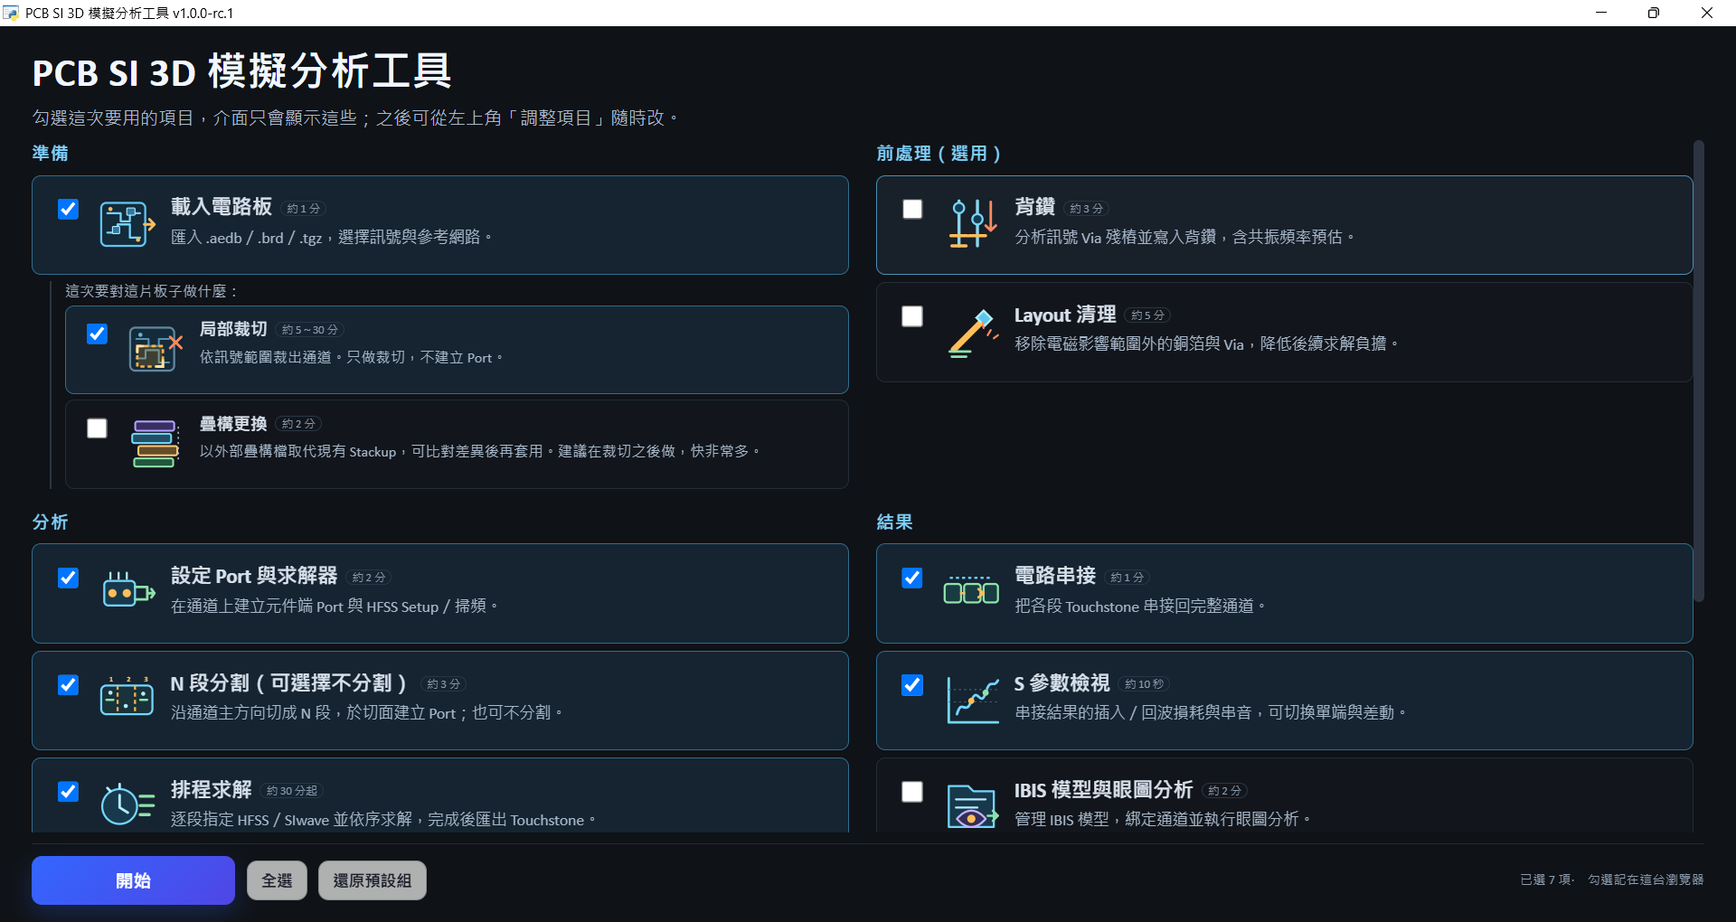
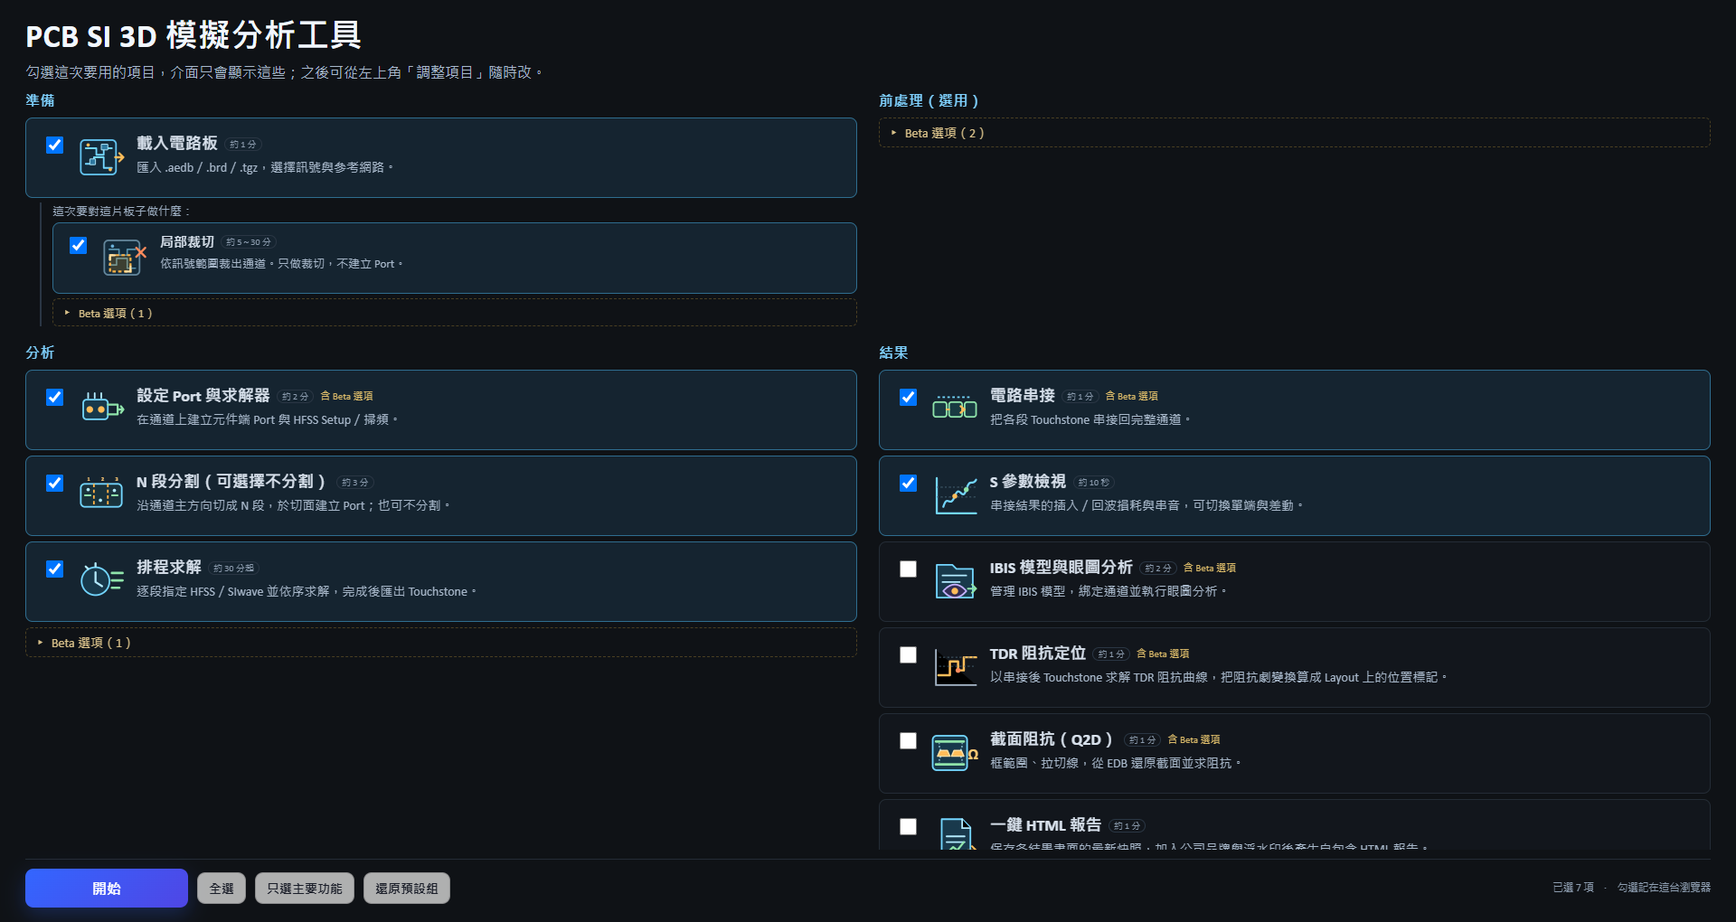
docs: 手冊與 README 補 Beta 選項（#0131）；重拍任務入口、新增 Beta 標籤截圖
01 新增 Beta 選項一節、06 眼圖分析標 Beta、11 Beta 確認的症狀；README 功能表標（Beta）
並指向 featureTiers.json，功能基準改 65fa265；CHANGELOG 未發布、圖片帳冊、AGENTS.md
說明分級檔不在公開版編輯。

diff --git a/docs/visual-assets.md b/docs/visual-assets.md
@@ -4,18 +4,19 @@
 
 | 項目 | 基準 |
 |---|---|
-| 工具版本／功能 commit | `1.0.0`／`cb01b63`（06 章眼圖精靈）、私有 `92d8b10`（gui-04b、14、15、15b、17b，2026-10-12）；其餘章節截圖拍於 `1.0.0-rc.1`／`63db38b`，畫面上的版本標籤仍是 rc.1 |
+| 工具版本／功能 commit | `1.0.0`／`cb01b63`（06 章眼圖精靈）、私有 `92d8b10`（gui-04b、14、15、15b、17b，2026-10-12）、私有 `65fa265`（gui-01、01b、01c，2026-10-12，瀏覽器模式 1920×1020、無標題列）；其餘章節截圖拍於 `1.0.0-rc.1`／`63db38b`，畫面上的版本標籤仍是 rc.1 |
 | 主線資料 | `Example_SYZ.aedb` 示範複本；先核對可公開權限 |
 | 畫面尺寸 | 工具視窗最大化，1920×1020（含標題列）；區域圖另記實際尺寸 |
 | 圖片目錄 | `graph/`，ASCII 檔名 |
-| 本次完成數 | 35 主圖：完成 19、區域圖 9、部分完成 3、併入 1、缺項 3、待拍 0；補圖 5；條件圖 0／5 |
+| 本次完成數 | 35 主圖：完成 19、區域圖 9、部分完成 3、併入 1、缺項 3、待拍 0；補圖 6；條件圖 0／5 |
 | 區域圖 | 該段畫面上下必有路徑欄，只截中間不含路徑的區塊；不修圖 |
 
 逐張完成後填工具 commit、示範資料來源、實拍日期、尺寸、成功狀態、去識別檢查與取代的舊圖。未拍或未回看不得標完成。不能注入假結果、改 DOM、拼貼成功畫面；不露本機路徑、使用者／客戶名稱與 token。
 
 | 圖檔 | 章 | 類別 | 驗收畫面 | 前置 | 狀態 |
 |---|---|---|---|---|---|
-| `gui-01-task-picker.png` | 00、01、README | 主圖 | 任務入口：載入與子任務、預設勾選、前置提示看得清楚 | 無 | 完成 |
+| `gui-01-task-picker.png` | 00、01、README | 主圖 | 任務入口：載入與子任務、預設勾選、Beta 選項收合、「只選主要功能」 | 無 | 完成：2026-10-12 重拍，私有 `65fa265`，瀏覽器模式 1920×1020 |
+| `gui-01c-beta-option.png` | 01 | 新增圖 | 展開「前處理」的 Beta 選項（2），停在背鑽的 `Beta Option` 標籤上顯示限制 | 無 | 完成：私有 `65fa265`，瀏覽器模式 1920×1020，2026-10-12 |
 | `gui-02-desktop-shell.png` | 01、README | 主圖 | 現行工具視窗框、版本、選單與工作區；無任何載入路徑 | 無 | 完成 |
 | `gui-03-help-menu.png` | 01、11 | 主圖 | 展開說明選單，包含支援包、授權、在瀏覽器開啟 | 無 | 完成 |
 | `gui-04-loaded-layout.png` | 00、02 | 主圖 | 示範板已載入、訊號與參考已選；隱藏輸入路徑，保留 Layout | 資料 | 完成 |
@@ -70,10 +71,10 @@
 
 | 狀態 | 圖 |
 |---|---|
-| 完成 | 01、02、03、04、06、07、13、14、15、17、18、19、20、21、22、23、26、27、28、30、31 |
-| 區域圖 | 08、09、10、11（`30c8ff8` 重拍）、16、32、33 |
+| 完成 | 01（`65fa265` 重拍）、02、03、04、06、07、13、17、18、19、20、21、22、23、26、27、28、30、31 |
+| 區域圖 | 08、09、10、11（`30c8ff8` 重拍）、14、15（`92d8b10` 重拍）、16、32、33 |
 | 部分完成 | 24（示範板非 DDR，綁定被擋）、34（完成對話框裁掉路徑行）、35（只有設定區） |
-| 補圖 | 01b、16b（高複雜度段改 SIwave 的確認框）、33b（`8acb42e` 產生的 HTML 報告：全文無本機路徑、6 張圖段數都是 3、浮水印跟著內容捲動）、20b（求解中按 X 的確認框）、27b（AMI 統計眼圖） |
+| 補圖 | 01b（`65fa265` 重拍）、01c（展開 Beta 選項與 `Beta Option` 限制提示）、16b（高複雜度段改 SIwave 的確認框）、33b（`8acb42e` 產生的 HTML 報告：全文無本機路徑、6 張圖段數都是 3、浮水印跟著內容捲動）、20b（求解中按 X 的確認框）、27b（AMI 統計眼圖） |
 | 缺項 | 12：清理候選 0；25：示範板不是 DDR；29：無可公開量測 CSV |
 
 模型庫用 Ansys 範例 IBIS（`ansys_ddr4_*`、`usb4_*`，檔內 Copyright ANSYS）。58 張核准的舊截圖已移除；品牌 LOGO 與 7 張 validation 證據圖保留。
@@ -93,6 +94,10 @@
 ## 重拍記錄（2026-10-12，判斷頻寬、不分割預覽、從中途開始、分段疊圖）
 
 前端同步到私有 `92d8b10` 後，隔離後端（獨立資料目錄、範例板複本）與 headless Chrome 實際操作：勾著局部裁切載入已設 Port 的 `Example_SYZ` 裁切複本 → 一鍵改成不裁切重新載入 → 套用內建 DDR4-3200 → 複雜度分析 → 等分 N=3 → 不分割。未求解、未占求解授權。重拍 `gui-14`、`gui-15`，新增 `gui-04b`、`gui-15b`、`gui-17b`。只用工具本身的操作（收合圖層面板、清除日誌）與裁切避開路徑欄位，沒有改 DOM 或修圖。逐張回看：無本機路徑、使用者／客戶名、token。
+
+## 重拍記錄（2026-10-12，Beta 選項）
+
+前端同步到私有 `65fa265` 後，直接以本 repo 的 `web_app/frontend/dist` 起本機靜態伺服器（不起後端、不載板），headless Chrome 清空瀏覽器儲存後實際操作：預設入口 → 捲到底 → 展開「前處理」的 Beta 選項並停在 `Beta Option` 標籤。重拍 `gui-01`、`gui-01b`，新增 `gui-01c`。第一次送出的確認框是瀏覽器原生對話框，截不到；以同一頁面實測文字、取消不送出、確認後同版本不再問，寫進 01、11 章。逐張回看：無本機路徑、使用者／客戶名、token。
 
 ## 舊圖處理
 

diff --git a/README.en.md b/README.en.md
@@ -1,6 +1,6 @@
 # PCB SI 3D Simulation Toolkit
 
-![Current task picker in the tool window, with no board loaded](graph/gui-01-task-picker.png)
+![Current task picker with no board loaded; Beta options collapsed](graph/gui-01-task-picker.png)
 
 Extract and solve a PCB signal channel, cascade its segments, and inspect eye diagrams, TDR locations and cross-section impedance as needed.
 
@@ -10,15 +10,17 @@ Extract and solve a PCB signal channel, cascade its segments, and inspect eye di
 
 | Task | Chapter |
 |---|---|
-| Net selection, cutout, stackup, backdrill and Layout cleanup | [02](docs/manual/02-載入與裁切.md) |
+| Net selection, cutout, stackup (Beta), backdrill (Beta) and Layout cleanup (Beta) | [02](docs/manual/02-載入與裁切.md) |
 | Endpoint ports, profiles and frequency sweeps | [03](docs/manual/03-Port與求解設定.md) |
 | Whole-board or segmented analysis, HFSS/SIwave assignment | [04](docs/manual/04-分段與混合求解.md) |
 | Scheduling, stopping, export retries and Touchstone cascading | [05](docs/manual/05-排程與串接.md) |
-| Model import, spec models (SPISim or toolkit-synthesized), Eye Wizard (single, multi-port, AMI) | [06](docs/manual/06-IBIS與眼圖.md) |
-| Simulated or measured TDR mapped to Layout | [07](docs/manual/07-TDR定位.md) |
+| Model import, spec models (SPISim or toolkit-synthesized, Beta), Eye Wizard; eye analysis (single, multi-port, AMI, Beta) | [06](docs/manual/06-IBIS與眼圖.md) |
+| Simulated or measured (Beta) TDR mapped to Layout | [07](docs/manual/07-TDR定位.md) |
 | 2D cross-section impedance and lateral convergence | [08](docs/manual/08-截面阻抗.md) |
 | Snapshots, watermarks and a single-file HTML report | [09](docs/manual/09-報告與輸出.md) |
-| External channels, remote solve packages, S-parameter tools and COM | [10](docs/manual/10-其他工作模式.md) |
+| External channels, remote solve packages (Beta), S-parameter tools (Beta) and COM (Beta) | [10](docs/manual/10-其他工作模式.md) |
+
+Features marked Beta are usable but have fewer validation cases; at equal severity, main features are fixed first. Beta does not mean the result is invalid. Tiers follow [`featureTiers.json`](web_app/frontend/src/featureTiers.json); the in-app labels and the one-time confirmation are described in [chapter 01](docs/manual/01-開始使用.md#beta-選項).
 
 ## Complete-tool prerequisites
 
@@ -50,6 +52,6 @@ Follow [00 First run](docs/manual/00-第一次跑.md). Eye analysis has a separa
 | Reports/support bundles | Check paths, models, logs and identifiers before sending. Watermarks are not DRM |
 | 2D Q2D | Does not cover the complete 3D effects of vias, corners or reference-plane gaps |
 
-Documentation targets `1.0.0`, feature baseline `92d8b10`. The status of all 35 main screenshots has been recorded, with 3 missing items. 5 conditional screenshots and distribution-package acceptance remain pending. [Release notes](CHANGELOG.md) · [Image register](docs/visual-assets.md) · [Validation](validation/README.md) · [Troubleshooting](docs/manual/11-疑難排解.md). Historical validation supports only its recorded versions, data and conditions.
+Documentation targets `1.0.0`, feature baseline `65fa265`. The status of all 35 main screenshots has been recorded, with 3 missing items. 5 conditional screenshots and distribution-package acceptance remain pending. [Release notes](CHANGELOG.md) · [Image register](docs/visual-assets.md) · [Validation](validation/README.md) · [Troubleshooting](docs/manual/11-疑難排解.md). Historical validation supports only its recorded versions, data and conditions.
 
 Commercial licensing and support are provided by Taiwan Auto-Design Co., Ltd. (TADC). This independent showcase is not affiliated with or endorsed by Ansys, Inc. Trademarks belong to their respective owners. The tool does not include, provide or bypass Ansys licensing.

diff --git a/README.zh-TW.md b/README.zh-TW.md
@@ -1,6 +1,6 @@
 # PCB SI 3D 模擬分析工具
 
-![現行任務入口（工具視窗，未載入板子）](graph/gui-01-task-picker.png)
+![現行任務入口（未載入板子，Beta 選項收合）](graph/gui-01-task-picker.png)
 
 將 PCB 訊號通道裁切、分段求解，再串回完整通道；依需求做眼圖、TDR 與截面阻抗分析。
 
@@ -10,15 +10,17 @@
 
 | 你要做什麼 | 操作章節 |
 |---|---|
-| 選網路、裁切、疊構、背鑽、Layout 清理 | [02 載入與裁切](docs/manual/02-載入與裁切.md) |
+| 選網路、裁切、疊構（Beta）、背鑽（Beta）、Layout 清理（Beta） | [02 載入與裁切](docs/manual/02-載入與裁切.md) |
 | 建端點 Port、套用規格與掃頻 | [03 Port 與求解設定](docs/manual/03-Port與求解設定.md) |
 | 選整片或分段、逐段指定 HFSS／SIwave | [04 分段與混合求解](docs/manual/04-分段與混合求解.md) |
 | 排程、停止、重試匯出、Touchstone 串接 | [05 排程與串接](docs/manual/05-排程與串接.md) |
-| 模型匯入、規格模型（SPISim 產生／本工具合成）、眼圖精靈（單通道、多埠、AMI） | [06 IBIS 與眼圖](docs/manual/06-IBIS與眼圖.md) |
-| 模擬／量測 TDR 回標 Layout | [07 TDR 定位](docs/manual/07-TDR定位.md) |
+| 模型匯入、規格模型（SPISim 產生／本工具合成，Beta）、眼圖精靈；眼圖分析（單通道、多埠、AMI，Beta） | [06 IBIS 與眼圖](docs/manual/06-IBIS與眼圖.md) |
+| 模擬／量測（Beta）TDR 回標 Layout | [07 TDR 定位](docs/manual/07-TDR定位.md) |
 | 二維截面阻抗、側向收斂 | [08 截面阻抗](docs/manual/08-截面阻抗.md) |
 | 更新快照、浮水印、單檔 HTML | [09 報告與輸出](docs/manual/09-報告與輸出.md) |
-| 外部通道、遠端求解包、S 參數工具箱、COM | [10 其他工作模式](docs/manual/10-其他工作模式.md) |
+| 外部通道、遠端求解包（Beta）、S 參數工具箱（Beta）、COM（Beta） | [10 其他工作模式](docs/manual/10-其他工作模式.md) |
+
+標「Beta」的功能可以使用，但驗證案例較少；同嚴重度的問題先處理主要功能，Beta 不代表結果無效。分級以 [`featureTiers.json`](web_app/frontend/src/featureTiers.json) 為準，介面上的標示與確認方式見 [01 Beta 選項](docs/manual/01-開始使用.md#beta-選項)。
 
 ## 完整工具前置需求
 
@@ -50,6 +52,6 @@
 | 報告／支援包 | 送出前檢查路徑、模型、日誌與識別資料；浮水印不是 DRM |
 | 二維 Q2D | 不涵蓋 Via、轉角與參考層破口的完整三維效應 |
 
-文件適用 `1.0.0`／功能基準 `92d8b10`。35 張主圖狀態已盤點，仍有 3 項缺圖；5 張條件圖與工具包驗收尚未完成。[版本說明](CHANGELOG.md)｜[圖片帳冊](docs/visual-assets.md)｜[驗證資料](validation/README.md)｜[疑難排解](docs/manual/11-疑難排解.md)。歷史驗證只支持其記錄的版本、資料與條件。
+文件適用 `1.0.0`／功能基準 `65fa265`。35 張主圖狀態已盤點，仍有 3 項缺圖；5 張條件圖與工具包驗收尚未完成。[版本說明](CHANGELOG.md)｜[圖片帳冊](docs/visual-assets.md)｜[驗證資料](validation/README.md)｜[疑難排解](docs/manual/11-疑難排解.md)。歷史驗證只支持其記錄的版本、資料與條件。
 
 商用授權與技術支援由虎門科技股份有限公司（Taiwan Auto-Design Co., Ltd.，TADC）提供。此為獨立公開展示，與 Ansys, Inc. 無隸屬或背書關係；相關商標屬原權利人，工具不含、不提供亦不繞過 Ansys 授權。

diff --git a/docs/manual/01-開始使用.md b/docs/manual/01-開始使用.md
@@ -43,17 +43,34 @@
 
 | 預設開啟 | 選用功能 |
 |---|---|
-| 載入電路板、局部裁切 | 疊構更換、背鑽、Layout 清理 |
-| 設定 Port 與求解器、N 段分割（可選擇不分割）、排程求解 | 遠端求解包 |
+| 載入電路板、局部裁切 | 收在「Beta 選項」：疊構更換、背鑽、Layout 清理 |
+| 設定 Port 與求解器、N 段分割（可選擇不分割）、排程求解 | 收在「Beta 選項」：遠端求解包 |
 | 電路串接、S 參數檢視 | IBIS 模型與眼圖分析、TDR 阻抗定位、截面阻抗（Q2D）、一鍵 HTML 報告 |
 
 「調整項目」可重新勾選。勾選控制面板顯示，**不代表前置工作已完成**；前置提示也不取代工程核對。順序是載入 → 裁切 → 選用幾何前處理 → Port → 整片／分段 → 求解 → 串接。
 
-![任務入口，預設勾選 7 項](../../graph/gui-01-task-picker.png)
+![任務入口，預設勾選 7 項，Beta 選項收合](../../graph/gui-01-task-picker.png)
 
 下方的截面阻抗與報告需在任務清單向下捲動。
 
 ![捲動後的選用任務](../../graph/gui-01b-task-picker-options.png)
+
+<a id="beta-選項"></a>
+### Beta 選項
+
+標 `Beta Option` 的功能可以使用，但驗證案例較少或不是主要支援流程；**同嚴重度的問題先處理主要功能**。Beta 不代表結果無效，主要功能也不代表結果已通過驗收。哪些是 Beta 以工具內的分級登錄檔（`featureTiers.json`）為準，介面標示跟著它走。
+
+| 位置 | 畫面 |
+|---|---|
+| 任務入口 | 純 Beta 的任務收在各群組的「Beta 選項（N）」，預設收合；勾了幾項會顯示「已選 N」 |
+| 含 Beta 模式的主要任務 | 卡片標「含 Beta 選項」，任務本身仍是主要功能（例如眼圖分析、量測 TDR 在各自的任務裡） |
+| 面板與模式 | 旁邊有 `Beta Option` 標籤；滑鼠停留、鍵盤焦點或點擊可看限制。下拉選項加「（Beta）」 |
+| 底部按鈕 | 「只選主要功能」勾選全部主要任務、不勾純 Beta 任務；「全選」照舊，並顯示含幾項 Beta |
+| 第一次送出 | 送出用到 Beta 的工作前，彙總本次用到的 Beta 項目與限制請你確認；**同一項在同一分級版本只問一次**，之後用到還沒確認過的 Beta 項才會再問。取消不送出、不改設定。原有的覆寫、授權與求解確認照舊各自問 |
+| 上次存下的勾選含 Beta | 原樣載入並提示，不會自動取消 |
+| 執行紀錄 | 記下當時用了哪些 Beta 選項，歷史面板顯示「分級」；舊紀錄顯示「分級：未記錄」 |
+
+![展開 Beta 選項，停在 Beta Option 標籤上看限制](../../graph/gui-01c-beta-option.png)
 
 ## 選單與工作狀態
 

diff --git a/CHANGELOG.md b/CHANGELOG.md
@@ -13,6 +13,7 @@
 | 判斷頻寬 | 求解器建議用的頻寬移到「模擬設定」，依規範／依資料率自訂二選一，兩邊各自保留；進階覆寫優先。切面一律以掃頻上限驗收。分段後改頻寬會提示重新評估；排程日誌提示頻寬與掃頻對不上 | [03](docs/manual/03-Port與求解設定.md#判斷頻寬)、[04](docs/manual/04-分段與混合求解.md#分段操作)、[05](docs/manual/05-排程與串接.md#排程求解) |
 | 不分割預覽 | 「不分割，整片求解」後，預覽整塊板一個求解區域，標籤跟著指定的求解器 | [04](docs/manual/04-分段與混合求解.md#不分割整片求解) |
 | 從中途開始 | 已裁切／已設 Port 的板子取消「局部裁切」直接載入；勾著局部裁切載入已有 Port 的板會提示，一鍵改成不裁切重新載入；訊號網路依既有 Port 預選 | [02](docs/manual/02-載入與裁切.md#已裁切或已設-port-的板子) |
+| 功能分級：主要與 Beta Option | 13 項主要、19 項 Beta（以 `web_app/frontend/src/featureTiers.json` 為準）。入口的 Beta 任務收進各群組「Beta 選項（N）」預設收合；含 Beta 模式的主要任務標「含 Beta 選項」；新增「只選主要功能」。面板、模式與下拉選項標 `Beta Option`／「（Beta）」，可看限制。第一次送出 Beta 選項前彙總確認，同一項在同一分級版本只問一次，取消不送出。上次存下的勾選含 Beta 時原樣載入並提示；執行紀錄與歷史面板記下當時的分級。限制：只有深色主題配色；報告尚未逐節標 Beta | [01](docs/manual/01-開始使用.md#beta-選項)、[06](docs/manual/06-IBIS與眼圖.md#眼圖精靈五步)、[11](docs/manual/11-疑難排解.md#常見問題) |
 | 分段疊圖兩顆開關 | 「板子禁切／風險」（禁切區間、硬擋 Pad、斜走線，與段數無關）與「切點診斷」（理想等分位置、被拒絕候選，隨段數改變） | [04](docs/manual/04-分段與混合求解.md#疊圖開關) |
 
 ## v1.0.0（2026-10-11）：第一版

diff --git a/README.md b/README.md
@@ -1,8 +1,8 @@
 # PCB SI 3D Simulation Toolkit
 
-![現行任務入口（工具視窗，未載入板子）](graph/gui-01-task-picker.png)
+![現行任務入口（未載入板子，Beta 選項收合）](graph/gui-01-task-picker.png)
 
-PCB 通道裁切、分段、HFSS／SIwave 混合求解、Touchstone 串接、IBIS／AMI 眼圖、TDR 定位與 Q2D 截面阻抗。
+PCB 通道裁切、分段、HFSS／SIwave 混合求解、Touchstone 串接、IBIS／AMI 眼圖（Beta）、TDR 定位與 Q2D 截面阻抗。標「Beta」的功能可以使用但驗證案例較少，分級以 [`featureTiers.json`](web_app/frontend/src/featureTiers.json) 為準，功能清單見[繁體中文說明](README.zh-TW.md)。
 
 **本 Repo 是公開展示版，沒有後端與啟動器。下載 Source ZIP 無法執行完整模擬。** 完整工具與商用支援請洽 [TADC](https://www.cadmen.com/)／[jeff.hong@cadmen.com](mailto:jeff.hong@cadmen.com)。
 
@@ -15,6 +15,6 @@ PCB 通道裁切、分段、HFSS／SIwave 混合求解、Touchstone 串接、IBI
 | [驗證資料](validation/README.md) | 個別功能的歷史驗證條件與結果 |
 | [圖片帳冊](docs/visual-assets.md) | 截圖版本與驗收狀態 |
 
-文件適用工具 `1.0.0`，功能基準 `92d8b10`。35 張主圖狀態已盤點，仍有 3 項缺圖；5 張條件圖與完整工具包驗收尚未完成，詳見版本說明與圖片帳冊。
+文件適用工具 `1.0.0`，功能基準 `65fa265`。35 張主圖狀態已盤點，仍有 3 項缺圖；5 張條件圖與完整工具包驗收尚未完成，詳見版本說明與圖片帳冊。
 
 商用授權與技術支援由虎門科技股份有限公司（Taiwan Auto-Design Co., Ltd.，TADC）提供。本工具與 Ansys, Inc. 無隸屬、無背書關係，Ansys、HFSS、SIwave 等商標屬原權利人。使用完整工具須自備相應的有效 Ansys 授權。

diff --git a/docs/manual/11-疑難排解.md b/docs/manual/11-疑難排解.md
@@ -33,6 +33,7 @@
 | 眼圖閉合／無法量測 | 核對通道、資料率、模型兩側、方向與等化；用基準眼比較，不能只降速就認定原設定正確 |
 | TDR 位置反向／不連續 | 查探棒端、網路、走線長度與未串入段，再判斷是否翻轉起點 |
 | Q2D 結束卻沒有數值 | 查可解性、錯誤與授權；工作結束不等於實際完成求解 |
+| 送出時跳「本次使用 Beta 選項」確認 | 本次用到還沒確認過的 Beta 項目；同一項在同一分級版本只問一次。按「取消」不送出、不改設定，畫面顯示「已取消：未確認 Beta 選項提示，沒有送出」。分級改版後會再問，見 [01 Beta 選項](01-開始使用.md#beta-選項) |
 | HTML 開不起來／內容不對 | 重開產出檔，核對作用中快照、過期數量與來源，見 [09](09-報告與輸出.md) |
 
 ![說明選單：支援包與日誌入口](../../graph/gui-03-help-menu.png)

diff --git a/docs/manual/06-IBIS與眼圖.md b/docs/manual/06-IBIS與眼圖.md
@@ -85,6 +85,8 @@
 
 單通道、多埠／DDR、IBIS-AMI 都在「眼圖精靈」分頁做完。舊的「多埠通道」「AMI 通道」分頁已移除，功能全部在精靈裡。
 
+**眼圖分析目前是 Beta Option**（標準 IBIS、IBIS-AMI、多埠／DDR）：已有實機出圖，但還缺獨立數值基準，補齊後再升級為主要功能。模型庫與精靈本身是主要功能；SPISim 規格模型、本工具合成、由量測建模、AMI 秒級預覽與等化掃描、S 參數工具箱、COM、SerDes 合規也是 Beta。第一次送出會跳一次彙總確認，見 [01 Beta 選項](01-開始使用.md#beta-選項)。
+
 | 步驟 | 做什麼 | 核對 |
 |---|---|---|
 | 1 通道 | 「瀏覽…」選 Touchstone。超過 4 埠自動走多埠分支 | 檔案是要分析的那條通道 |

diff --git a/AGENTS.md b/AGENTS.md
@@ -47,6 +47,13 @@ Most images are shared, but any image containing local paths or customer data ne
 anonymized `-public` variant first. Before copying in any image the public repository does not
 already have, actually look at the image content and decide.
 
+### Feature tiers (main / Beta Option)
+
+`web_app/frontend/src/featureTiers.json` is the single list of which features are Beta. It is synced
+from the private repository with the rest of `web_app/frontend/` — do not edit it here. README
+feature lists and the manual only add a "(Beta)" mark and point to that file; never copy the full
+tier table into documentation.
+
 ## Before publishing
 
 Review changed files for private/local file paths (including this machine's own directory
